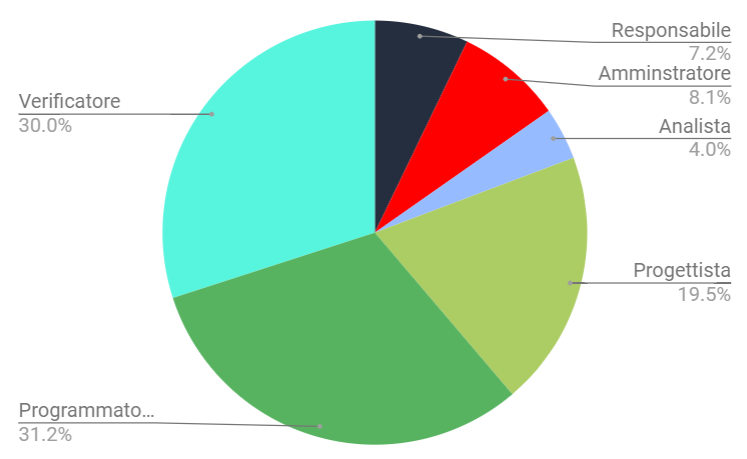
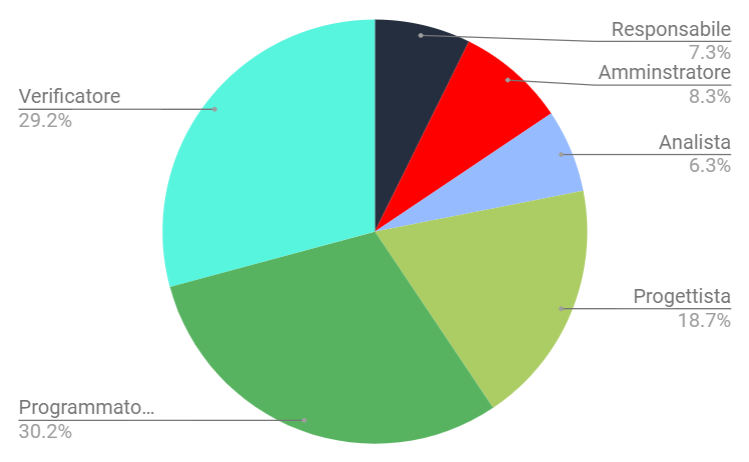
New Changelog PdP
è già possibile fare una correzione del PdP perchè le modifiche ed i aggiornamenti richiesti sono minimali o strutturali(spostare quello che c'è già scritto)
TODO:
-spostare i consuntivi di periodo nel capitolo(nuovo) consuntivo di periodo
-manca da mettere i requisiti soddisfatti negli incrementi definiti in appendice
-mettere una tabella nel consuntivo di periodo relativo alla progettazione(non strettamente necessaria) dei costi parziali

diff --git a/DocumentiEsterni/PianoDiProgetto/src/Preventivo/src/Consuntivo/ConsuntivoProgettazione.tex b/DocumentiEsterni/PianoDiProgetto/src/Preventivo/src/Consuntivo/ConsuntivoProgettazione.tex
@@ -1,5 +1,9 @@
 \subsubsection{Bilancio investimento fase di progettazione}
 Il bilancio della fase di progettazione è positivo,il gruppo ha impiegato meno ore di quelle preventivate inzialmente,ma sono stati riscontrati diversi problemi.\\
+È stato cruciale fare un analisi critica della fase precedente e dei rischi che ne possono derivare,sono stati riscontrati rischi che hanno influito nella ripianificazione della fase di progettazione.
+Il team ha concordato ad unanimità di ruotare i ruoli in modo solo parziale e lasciare la progettazione architetturale e lo sviluppo relativo al PoC a membri con un'esperienza
+maggiore nelle relative tecnologie conivolte.
+Per la lista dei rischi riscontrati si rimanda alla appendice dove si trova alla \hyperlink{Tabellaoccorrenzarischi}{tabella dell'occorrenza dei rischi} in appendice.
 La seguente tabella illustra la differenza oraria ed economica rilevata a posteriori.
 {
 \rowcolors{2}{\evenRowColor}{\oddRowColor}
@@ -15,31 +19,27 @@ La seguente tabella illustra la differenza oraria ed economica rilevata a poster
 \textcolor{\secondaryColor}{\textbf{Costo effettivo (in \euro{})}} & 
 \textcolor{\secondaryColor}{\textbf{Variazione di costo (in \euro{})}}\\	
 	
-Responsabile    &  21 & 0 & 630 & 630 &  0 \\
+Responsabile    &  19 & 0 & 630 & 570 &  0 \\
 Amministratore  &  20 & 0 & 400 & 400 & 0 \\
 Analista        & 24 & +16 & 600 & 1000 & +400 \\
 Progettista     &  49 & 9 & 1078 & 880 & -198 \\
 Programmatore   &   58 & -12 & 870 &  690 & -180 \\
 Verificatore    &  59 &  -10 & 885 & 735 & -150 \\
-\textbf{Totale} & 231 & 20 & 4575 & 4400 & -128 \\	
-
+\textbf{Totale} & 231 & 20 & 4463 & 4335 & -128 \\	
 \end{longtable}
 }
+ Nel seguente istogramma viene rappresentata la ridistribuzione oraria e delle responsabilità(come si può notare alcuni membri del team non hanno ruotato come concordato dal team):\\
+\includegraphics[width=1\textwidth]{./src/Preventivo/src/img/istoConsuntivoProgettazioneRuoli.png}
 
 \subsubsection{Conclusioni}
 Come riportato dalla tabella, il bilancio risulta essere positivo per i seguenti motivi:
 \begin{itemize}
-	\item \textbf{Responsabile}: {essendo il team abbastanza coeso la maggior parte del tempo è stato dedicato al PdP;}
+	\item \textbf{Responsabile}: {essendo il team abbastanza coeso la maggior parte del tempo è stata dedicato al PdP;}
 	\item \textbf{Amministratore}: {la collaborazione tra membri del team in questo ruolo è risultata soddisfaciente;}
 	\item \textbf{Analista}: {Dopo l'aggiudicazione del capitolato il team si è reso conto che la documentazione presente nell'AdR presentava diverse lacune, ciò ha portato a un incremento orario per tale ruolo;}
 	\item \textbf{Progettista}: {Grazie all'esperienza dei membri e alla chiarezza dei requisiti si è riuscito a mitigare il numero di ore neccessarie a progettare il PoC, ammortizzando il costo orario dell'analista;}
 	\item \textbf{Programmatore}: {Grazie all'esperienza dei membri e alla chiarezza dei requisiti si è riuscito a mitigare il numero di ore neccessarie allo sviluppo del PoC, ammortizzando il costo orario dell'analista;}
 	\item \textbf{Verificatore}: {Avendo più esperienza con le tecnologie richieste(alla documentazione in particolare), il numero di ore è inferiore a quelle preventivate.}
 \end{itemize}
-La suddivisione a periodi di una fase permette di migliorare la produttività del team incrementalmente, visto che viene effettuato un check intermedio sostanziale alla fine di uno periodo:
-\begin{itemize}
-	\item Dai \textbf{verificatori}, che validano i deliverables relativi a quello periodo;
-	\item E dal \textbf{responsabile}, che verifica la presenza di eventuali problematiche e si attiva nel risolverle.
-\end{itemize}
 L'esperienza e la coesione maturata saranno cruciale nel cercare di mitigare il numero di ore richieste,visti i scostamenti orari in particolare dell'analista rispetto al preventivo iniziale, che hanno portato ad una riduzione oraria complessiva di ciascun membro.
-Visti i problemi riscontrati nel bilancio della fase di progettazione, il costo totale del preventivo a finire rimarrà invariato, per mitigare eventuali problemi di pianificazione oraria(come quello riscontrato in tale fase).
+Visti i problemi riscontrati nel bilancio della fase di progettazione, il costo totale del preventivo a finire rimarrà invariato, per mitigare eventuali rischi(come quelli riscontrati in tale fase).

diff --git a/DocumentiEsterni/PianoDiProgetto/src/AnalisiRischi/src/OccorrenzaRischi.tex b/DocumentiEsterni/PianoDiProgetto/src/AnalisiRischi/src/OccorrenzaRischi.tex
@@ -55,5 +55,34 @@ Di seguito viene stilata una tabella parziale, soggetta ad aggiornamenti progres
         media &
         In qualche caso la redazone di alcuni documenti si è protratta oltre il tempo prestabilito per ultimare gli stessi, ritardando così i tempi per la loro validazione. Fortunatamente i ritardi non sono stati eccessivi e si è riusciti ugualmente a completare i lavori entro i tempi stabiliti, senza particolari complicazioni. È stato in ogni caso fatto presente tra i membri del gruppo.\\
         \hline
+        RPa &
+        progettazione &
+        1,2 & 
+        alta &
+        i membri del team sono stati impegnati in altri progetti personali, che hanno portato a una ripianificazione ed a concordare una nuova data col committente a cui presentare l'andamento dei lavori.\\
+        \hline
+        ROc &
+        progettazione &
+        1 & 
+        bassa &
+        sono state fatte sia sovrastime che sottostime ma si è ripianificato in tempo per ammortizzare il carico di lavoro medio\\
+        \hline
+        RSa &
+        progettazione &
+        1 & 
+        bassa &
+        la maggior parte del team ha segnalato subito all'inizio di tale fase che ci sarebbere stato tale rischio ed ha pianificato di conseguenza. \\
+        \hline
+        RRa &
+        progettazione &
+        1 & 
+        bassa & 
+        è stato chiaro fin da subito alla maggior parte del team che doveva essere fatta un analisi più approfondita,ciò ha influito in una ripianificazione oraria e ricollocazione delle risorse.\\
+        \hline
+        RTa &
+        progettazione &
+        1,2,3 & 
+        alta &
+        gli impegni personali(ROc) ed al contempo imparare le tecnologie rischieste ha portato ad un alto stress nel gruppo, non ha influito grazie alla ripianificazione della fase relativa. \\
     \end{longtable}
 }

diff --git a/DocumentiEsterni/PianoDiProgetto/src/Preventivo/src/Preventivo/PreventivoFinale.tex b/DocumentiEsterni/PianoDiProgetto/src/Preventivo/src/Preventivo/PreventivoFinale.tex
@@ -1,4 +1,4 @@
-\subsection{Preventivo finale} 
+\subsection{Preventivo a finire completo} 
 Nel preventivo riportiamo la spesa totale che il committente dovrà affrontare, derivata dal totale delle ore rendicontate e preventivate nelle fasi di Progettazione, Sviluppo,Collaudo.
 
 \subsubsection{Divisione oraria complessiva} 
@@ -20,14 +20,14 @@ La seguente tabella rappresenta la distribuzione oraria dei ruoli per ogni compo
 \textcolor{\secondaryColor}{\textbf{Ore complessive}}\\	
 \endhead
 
-\AW{}                     &  10 & 5 & - & 30 & 27 & 32 & 104 \\
-\AT{}                     & 11 & 10 & 5 & 22 & 22 & 35 & 105 \\
-\AD{}                     & 10 & 10 & - & 14 & 34 & 34 & 102 \\
-\EC{}                     & 11 & 10 &  6 & 13 & 32 & 32 & 104 \\
-\EM{}                     & - & 8  &  7 & 17 & 40 & 32 & 104 \\
-\FP{}                     & 10 & 8  &  6 & 21 & 35 & 24 & 104 \\
-\GG{}                     &  - & 8  & 5 & 25 & 37 & 29 & 104 \\
-\textbf{Ore totali ruolo} & 52  & 59 & 29 & 142 & 227 & 218 & 727 \\
+\AW{}                     & - & 5 & 10 & 30 & 25 & 32 & 102 \\
+\AT{}                     & 11 & 10 & 15 & 15 & 22 & 28 & 101 \\
+\AD{}                     & 10 & 10 & - & 12 & 38 & 32 & 102 \\
+\EC{}                     & 11 & 10 &  11 & 13 & 23 & 32 & 100 \\
+\EM{}                     & 10 & 8  &  0 & 17 & 38 & 30 & 103 \\
+\FP{}                     & 10 & 8  &  0 & 23 & 34 & 27 & 102 \\
+\GG{}                     &  - & 8  & 9 & 23 & 35 & 27 & 102 \\
+\textbf{Ore totali ruolo} & 52  & 59 & 45 & 133 & 215 & 208 & 712 \\
 \end{longtable}
 }
 

diff --git a/DocumentiEsterni/PianoDiProgetto/src/Preventivo/main.tex b/DocumentiEsterni/PianoDiProgetto/src/Preventivo/main.tex
@@ -24,8 +24,9 @@ Sigle identificative per i ruoli indicati nelle tabelle e nei grafici:
 \input{./src/Preventivo/src/Preventivo/PreventivoAnalisi.tex}
 \input{./src/Preventivo/src/Preventivo/PreventivoProgettazione.tex}
 \input{./src/Preventivo/src/Consuntivo/ConsuntivoProgettazione.tex}
-\input{./src/Preventivo/src/Preventivo/PreventivoCodifica.tex}
 
+\section{Preventivo a finire}
+\input{./src/Preventivo/src/Preventivo/PreventivoCodifica.tex}
 \input{./src/Preventivo/src/Preventivo/PreventivoCollaudo.tex}
 
 \input{./src/Preventivo/src/Preventivo/PreventivoFinale.tex}

diff --git a/DocumentiEsterni/PianoDiProgetto/src/Organigramma/main.tex b/DocumentiEsterni/PianoDiProgetto/src/Organigramma/main.tex
@@ -63,4 +63,4 @@
 	\end{longtable}
 }
 \subsection{Note}
-All'inizio di ogni Periodo viene concordata dal team una eventuale rotazione equa delle responsabilità.
+All'inizio di ogni periodo viene concordata dal team una eventuale rotazione equa delle responsabilità al fine di tenere il team motivato.
